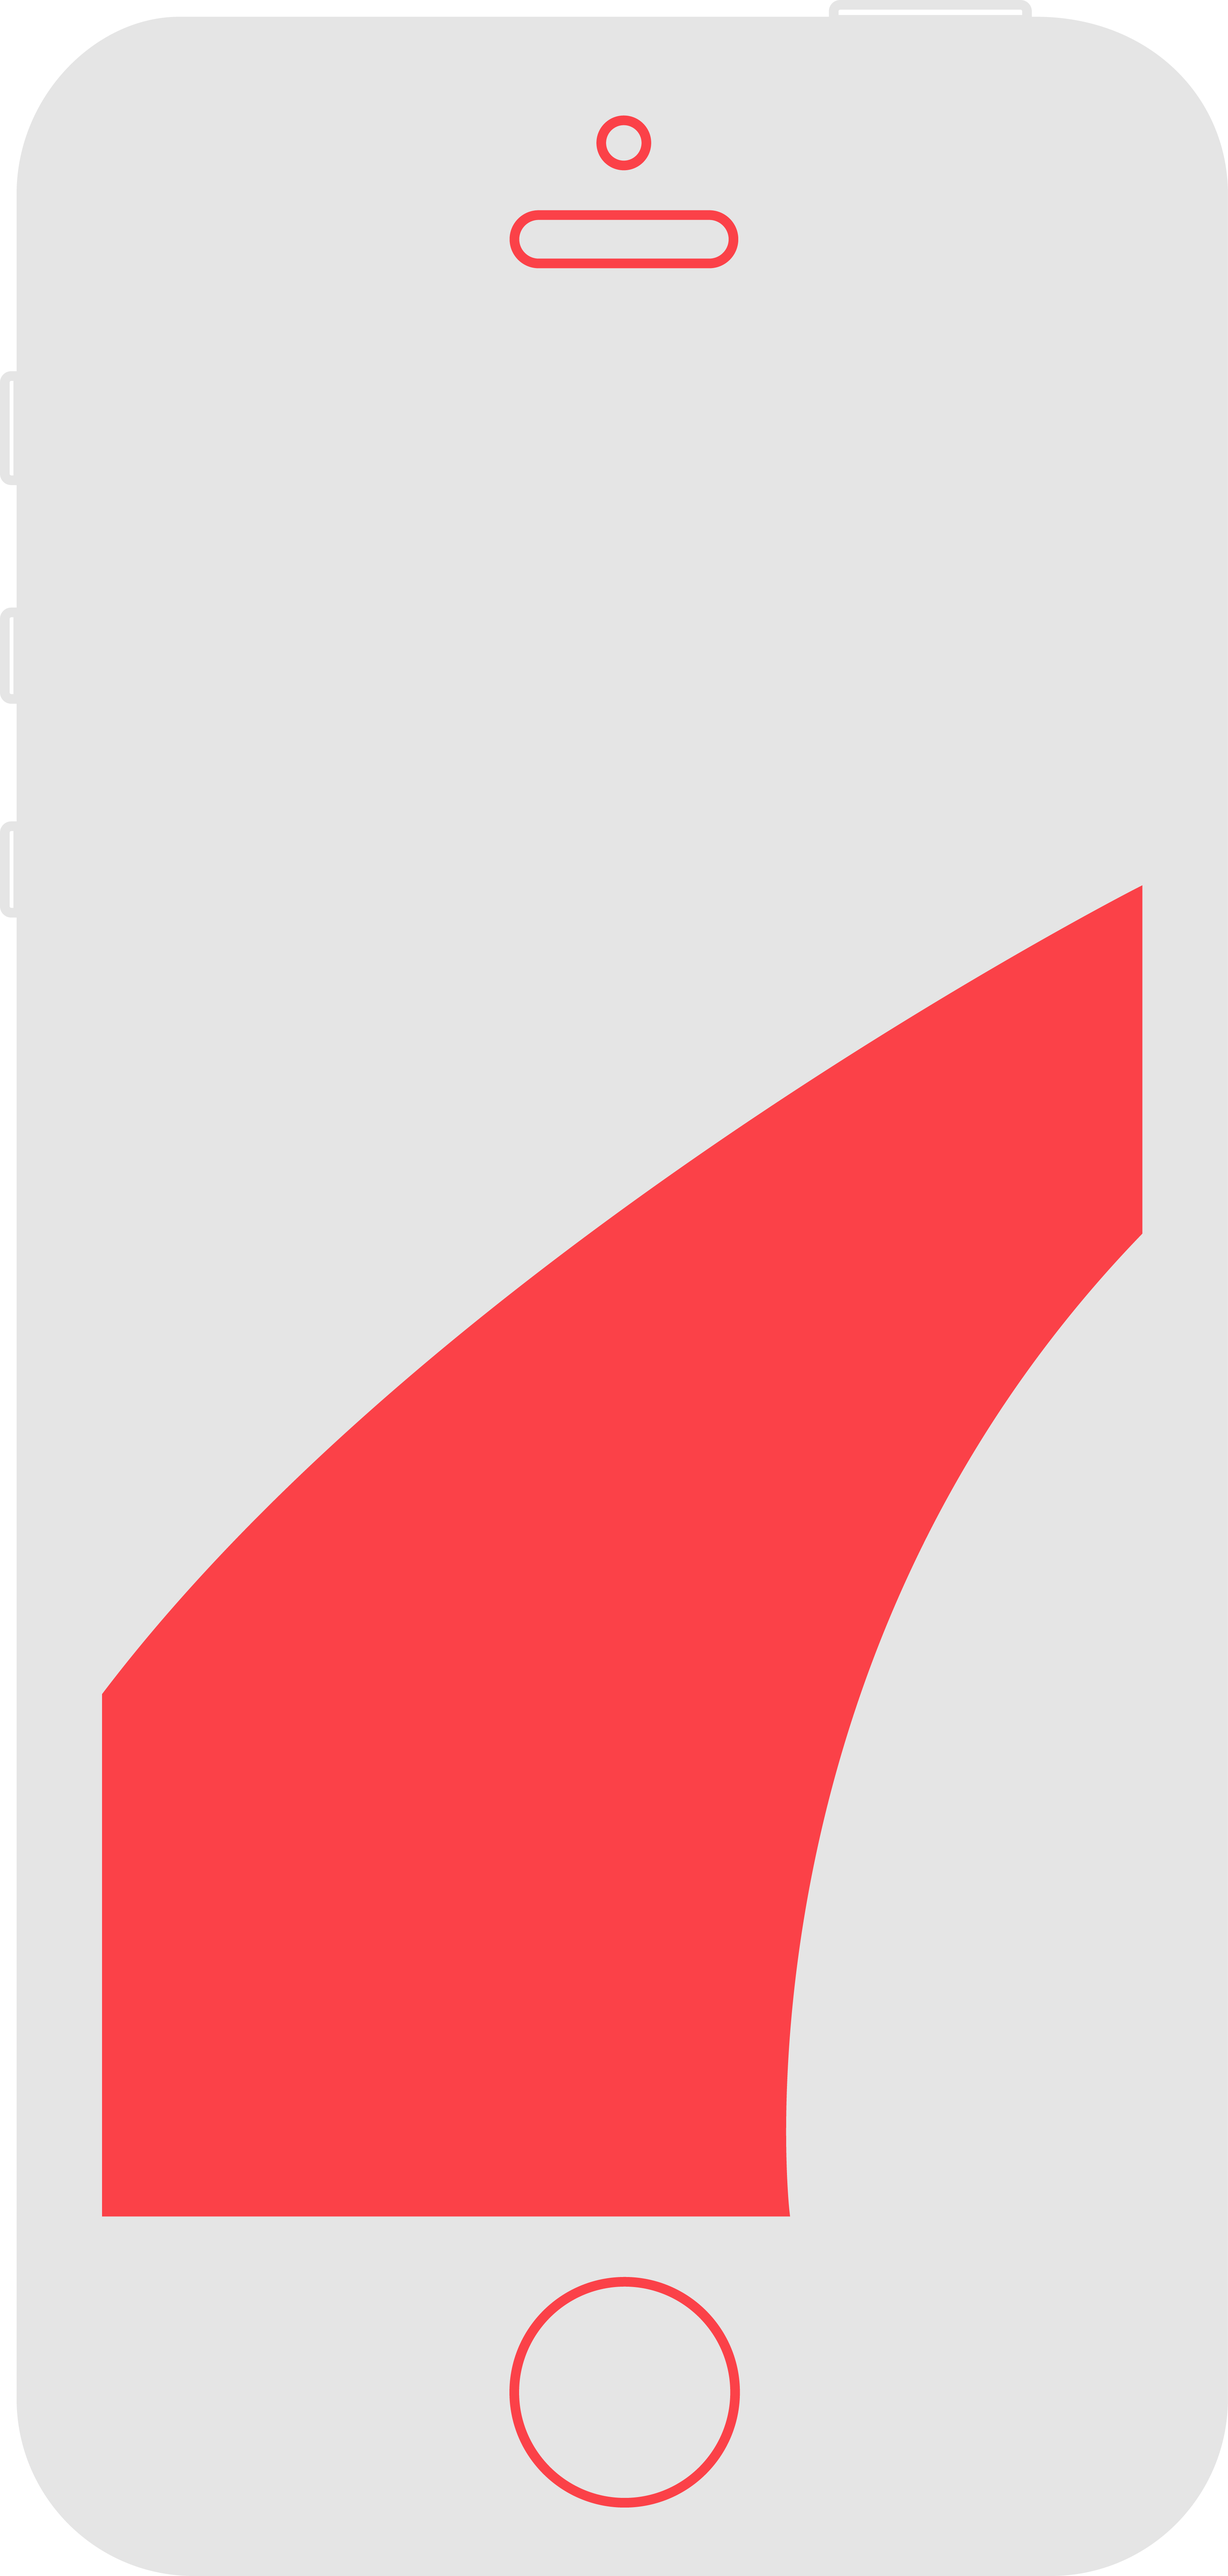
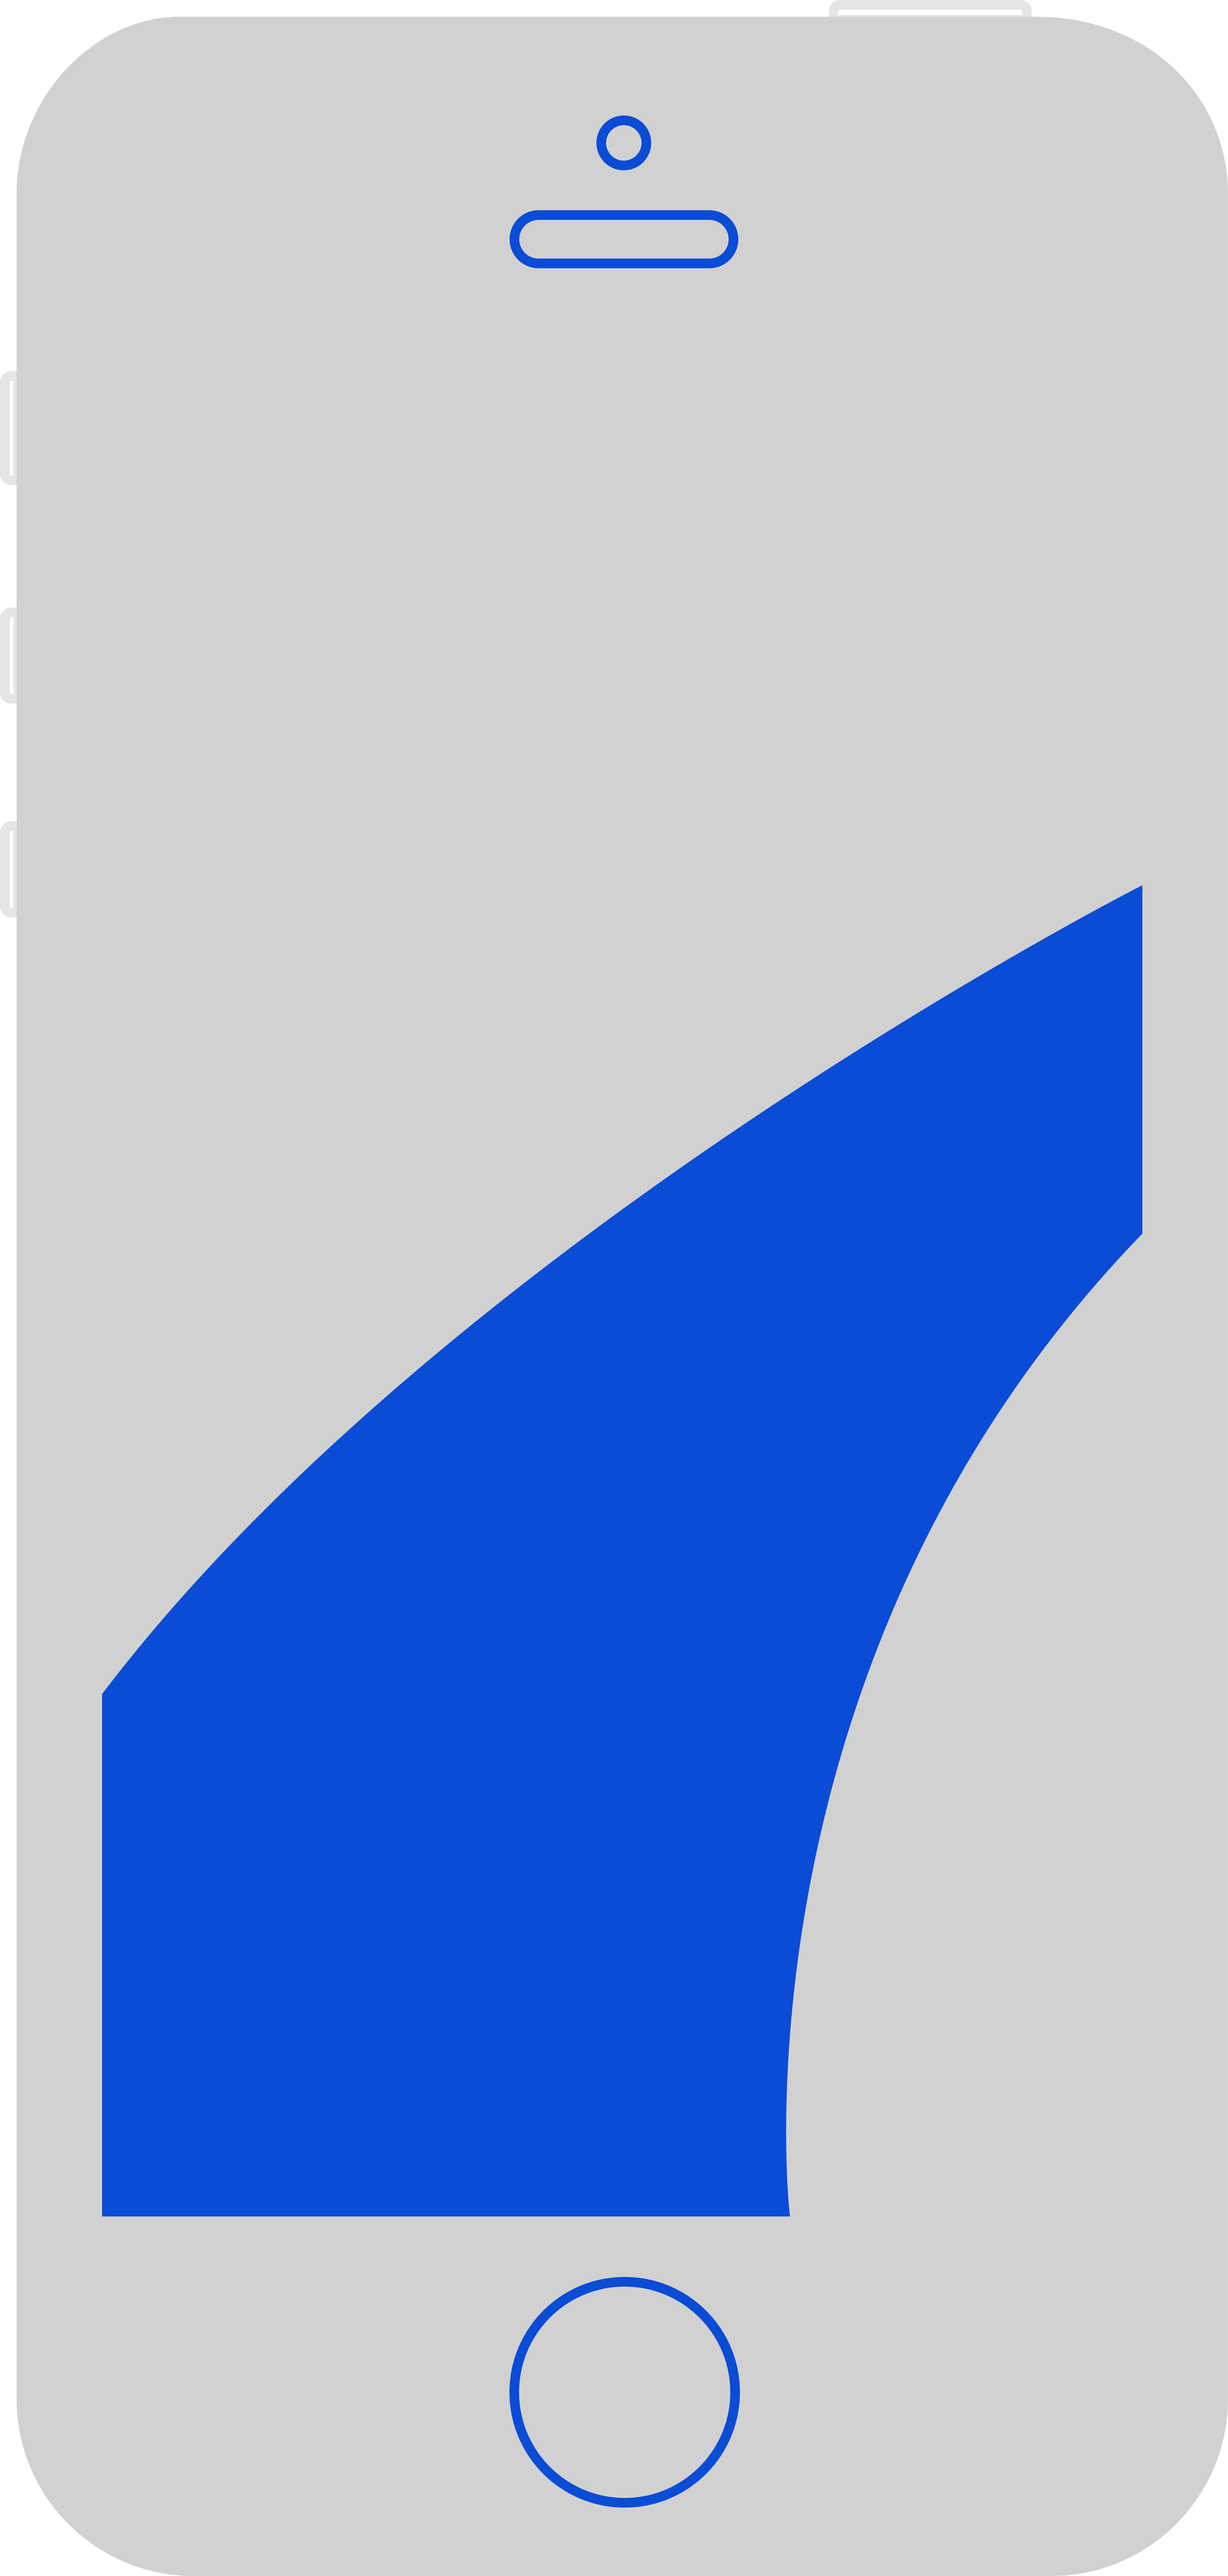
make posts title link to individual post page

diff --git a/app/assets/stylesheets/devise/login.scss b/app/assets/stylesheets/devise/login.scss
@@ -15,11 +15,11 @@
   font-family: $font-stack;
   font-weight: $thin;
   font-size: 43px;
-  color: $background-color;
+  color: $white;
 }
 
 .login mark {
-  color: $background-color;
+  color: $white;
   padding: 0;
   background: none;
 }
@@ -28,11 +28,11 @@
   font-size: 20px;
   font-weight: 400;
   padding: 6px 0;
-  color: $background-color;
+  color: $white;
 }
 
 .login a:hover {
-  color: $background-color;
+  color: $white;
   background: none;
   text-decoration: none;
 }
@@ -42,17 +42,17 @@
   font-weight: 300;
   font-size: 22px;
   margin: 5px 0px;
-  color: $background-color;
+  color: $white;
 }
 
 .login input {
   padding: 12px 12px;
-  color: $background-color;
+  color: $white;
   background: none;
   border-left: none;
   border-top: none;
   border-right: none;
-  border-bottom: thin solid $background-color;
+  border-bottom: thin solid $white;
 }
 
 #remember-me-field label {

diff --git a/app/assets/stylesheets/spots/index.scss b/app/assets/stylesheets/spots/index.scss
@@ -13,7 +13,7 @@
 .hamburger-btn {
   position: absolute;
   z-index: 1;
-  background: $secondary-color;
+  background: $primary-color;
   margin: 10px;
   padding: 2px;
   padding-bottom: 0;
@@ -168,7 +168,7 @@
 }
 
 .leaflet-popup-content-wrapper {
-  background: $secondary-color;
+  background: $primary-color;
   color: $white;
 }
 
@@ -248,9 +248,9 @@
     }
 
     .alert {
-      background: $secondary-color;
+      background: $primary-color;
       color: $white;
-      border-color: $secondary-color;
+      border-color: $primary-color;
 
       a {
         padding-left: 10px;
@@ -310,7 +310,7 @@
 /* report modal */
 
 #report-modal {
-  background: $secondary-color;
+  background: $primary-color;
 }
 
 #report-modal .modal-header {
@@ -321,7 +321,7 @@
   font-family: $font-stack;
   font-weight: $thin;
   font-size: 36px;
-  color: $secondary-color;
+  color: $primary-color;
 }
 
 

diff --git a/app/assets/stylesheets/devise/signup.scss b/app/assets/stylesheets/devise/signup.scss
@@ -15,17 +15,17 @@
   font-family: $font-stack;
   font-weight: $thin;
   font-size: 43px;
-  color: $background-color;
+  color: $white;
 }
 
 .signup mark {
-  color: $background-color;
+  color: $white;
   padding: 0;
   background: none;
 }
 
 .signup a {
-  color: $background-color;
+  color: $white;
 }
 
 .signup a:hover {
@@ -38,17 +38,17 @@
   font-weight: 400;
   font-size: 22px;
   margin: 5px 0px;
-  color: $background-color;
+  color: $white;
 }
 
 .signup input {
   padding: 12px 12px;
-  color: $background-color;
+  color: $white;
   background: none;
   border-left: none;
   border-top: none;
   border-right: none;
-  border-bottom: thin solid $background-color;
+  border-bottom: thin solid $white;
 }
 
 .field_with_errors {

diff --git a/app/assets/stylesheets/posts/index.scss b/app/assets/stylesheets/posts/index.scss
@@ -15,6 +15,14 @@
   cursor: pointer;
 }
 
+.caption h3:hover {
+  background-color: $primary-color;
+}
+
+.caption a:hover {
+  text-decoration: none;
+}
+
 .caption p {
   margin-bottom: 15px;
   color: $background-color;
@@ -26,7 +34,6 @@
   text-align: center;
   margin-top: 0;
   padding: 20px 0;
-  color:$background-color;
 }
 
 .user-posts p {

diff --git a/app/assets/stylesheets/welcome/index.scss b/app/assets/stylesheets/welcome/index.scss
@@ -281,7 +281,7 @@
 .user-content .glyphicon {
   font-size: 90px;
   line-height: 150px;
-  color: $background-color;
+  color: $white;
 }
 
 #user-content-btn {
@@ -289,7 +289,7 @@
 }
 
 .user-content a {
-  color: $secondary-color;
+  color: $primary-color;
   background: $white;
   font-size: 48px;
   padding: 10px 15px;

diff --git a/app/assets/stylesheets/global.scss b/app/assets/stylesheets/global.scss
@@ -1,5 +1,5 @@
-$primary-color: #fb4148;
-$secondary-color: #0b4cd6;
+$primary-color: #0b4cd6;
+$secondary-color: #fb4148;
 $background-color: rgba(13, 0, 61, .9);
 $tertiary-color: #1E3056;
 $white: #fff;
